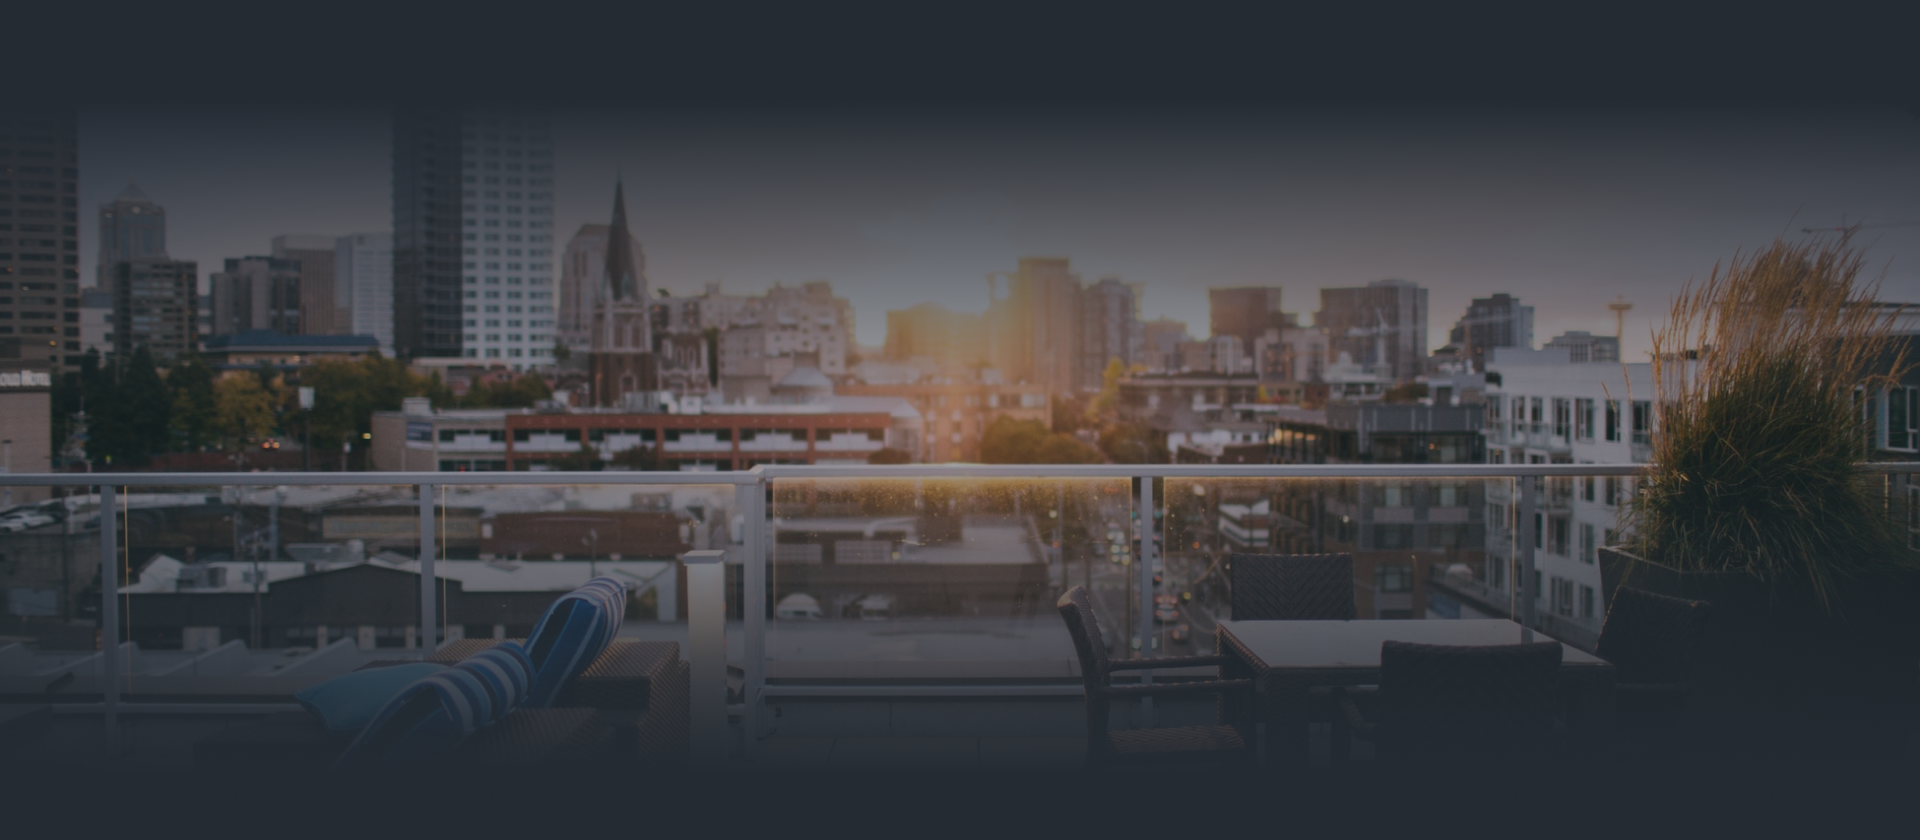
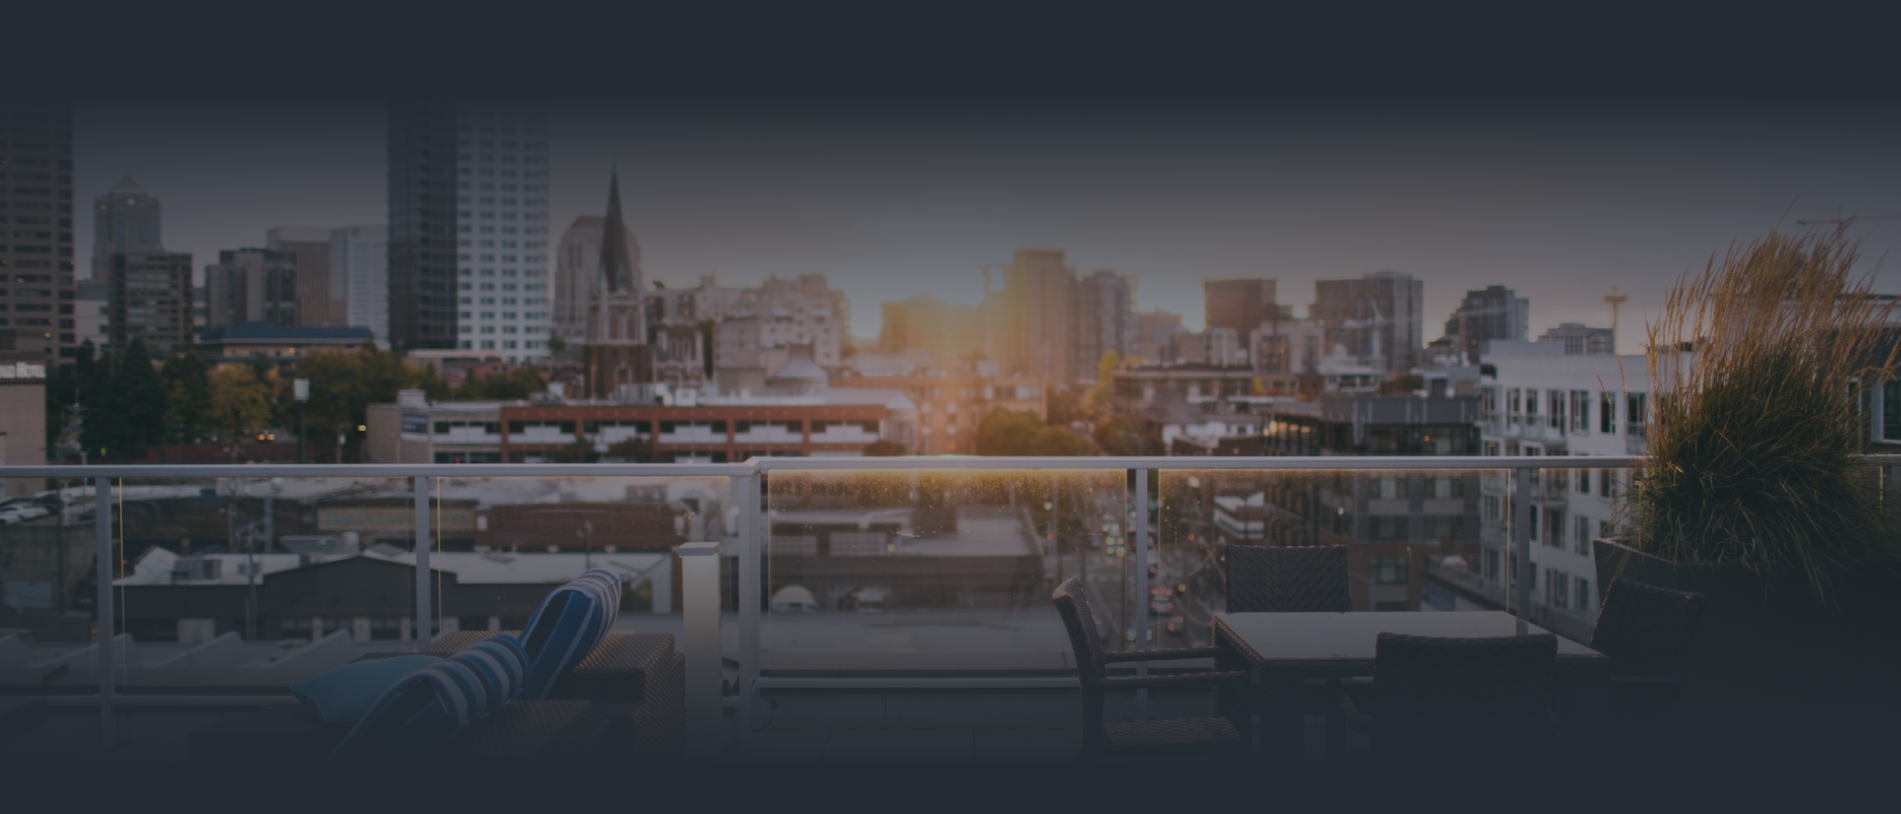
maps

diff --git a/style.css b/style.css
@@ -94,6 +94,7 @@
 }
 
 .bodySection {
+  margin-top: -2px;
   background-color: #242B33;
   background-size: cover;
   width: 100%;
@@ -133,6 +134,7 @@
 }
 
 .feedback {
+  margin-top: -2px;
   background: url("images/Rectangle (3).png");
   background-size: cover;
   min-height: 450px;
@@ -214,6 +216,7 @@
 }
 
 .sectionInfo {
+  margin-top: -2px;
   background: #242B33;
   display: -webkit-box;
   display: -ms-flexbox;
@@ -260,12 +263,14 @@
   color: #f3d08e;
 }
 
-.sectionInfo .sectionInfo_mape_wrapper img {
+.sectionInfo .sectionInfo_mape_wrapper .sectionInfo_mape {
+  padding: 5px;
   width: 100%;
-  height: 100%;
+  min-height: 600px;
 }
 
 .footer {
+  margin-top: -2px;
   background: #2D353D;
   height: 250px;
   display: -webkit-box;
@@ -298,113 +303,4 @@
   text-decoration: none;
   color: #f3d08e;
 }
-
-/* #emblem{
-	text-align: center;
-    color: #fff;
-    margin-top: 30px;
-}
-
-ul, li{
-    margin: 0;
-    padding: 0;
-    display: block;
-}
-
-.menu{
-    margin-top: 55px;
-}
-
-.menu__home{
-    margin-right: 40px;
-}
-
-.menu__home a{
-    font-size: 14px;
-    font-weight: 700;
-    text-align: center;
-    color: #fff;
-}
-
-#hederCent{
-	padding: 0;
-	margin-top: 200px;
-	font-family: Playfair Display;
-	font-style: normal;
-	font-weight: bold;
-	font-size: 48px;
-	line-height: 64px;
-	text-align: center;
-	color: #D4C17F;
-}
-
-#mouse{
-	margin-top: 100px;
-}
-
-#adres{
-	font-size: 15px;
-    font-weight: 700;
-    text-align: center;
-    color: #fff;
-    padding: 0;
-    margin-top: 340px;
-}
-
-#content{
-	background: #242B33;
-}
-
-#contentText{
-	font-family: Playfair Display;
-	font-style: normal;
-	font-weight: bold;
-	font-size: 36px;
-	line-height: 48px;
-	color: #D4C17F;
-	margin-top: 120px;
-}
-
-#contentImg{
-	margin-top: 100px;
-	margin-bottom: 30px;
-}
-
-#cont{
-	background:  url('images/Rectangle (3).png') center / cover no-repeat;
-}
-
-#textFisf{
-	font-family: Raleway;
-	font-style: normal;
-	font-weight: normal;
-	font-size: 16px;
-	line-height: 24px;
-	color: #FFFFFF;
-	margin-bottom: 180px;
-}
-
-#btns{
-	background: #FFFFFF;
-	width: 255px;
-	height: 50px;
-}
-
-
-.semi-transparent-button {
-	width: 255px;
-	height: 50px;
-	background: #FFFFFF;
-	opacity: 0.2;
-	}
-
-#contentTextBtn{
-	font-family: Raleway;
-font-style: normal;
-font-weight: normal;
-font-size: 13px;
-line-height: 16px;
-text-align: center;
-color: #E7E7E7;
-} */
 /*# sourceMappingURL=style.css.map */

diff --git a/style.scss b/style.scss
@@ -58,6 +58,7 @@
 }
 
 .bodySection{
+	margin-top: -2px;
 	background-color: #242B33;
 	background-size: cover;
 	width: 100%;
@@ -82,6 +83,7 @@
 }
 
 .feedback{
+	margin-top: -2px;
 	background: url('images/Rectangle\ \(3\).png');
 	background-size: cover;
 	min-height: 450px;
@@ -135,6 +137,7 @@
 }
 
 .sectionInfo{
+	margin-top: -2px;
 	background: #242B33;
 	display: flex;
 	align-items: center;
@@ -157,14 +160,16 @@
 			padding: 10px;
 			color: rgb(243, 208, 142);
 		}
-		img{
+		.sectionInfo_mape{
+			padding: 5px;
 			width: 100%;
-			height: 100%;
+			min-height: 600px;
 		}
 	}
 }
 
 .footer{
+	margin-top: -2px;
 	background: #2D353D;
 	height: 250px;
 	display: flex;
@@ -186,116 +191,3 @@
 	}
 }
 
-
-
-
-
-
-/* #emblem{
-	text-align: center;
-    color: #fff;
-    margin-top: 30px;
-}
-
-ul, li{
-    margin: 0;
-    padding: 0;
-    display: block;
-}
-
-.menu{
-    margin-top: 55px;
-}
-
-.menu__home{
-    margin-right: 40px;
-}
-
-.menu__home a{
-    font-size: 14px;
-    font-weight: 700;
-    text-align: center;
-    color: #fff;
-}
-
-#hederCent{
-	padding: 0;
-	margin-top: 200px;
-	font-family: Playfair Display;
-	font-style: normal;
-	font-weight: bold;
-	font-size: 48px;
-	line-height: 64px;
-	text-align: center;
-	color: #D4C17F;
-}
-
-#mouse{
-	margin-top: 100px;
-}
-
-#adres{
-	font-size: 15px;
-    font-weight: 700;
-    text-align: center;
-    color: #fff;
-    padding: 0;
-    margin-top: 340px;
-}
-
-#content{
-	background: #242B33;
-}
-
-#contentText{
-	font-family: Playfair Display;
-	font-style: normal;
-	font-weight: bold;
-	font-size: 36px;
-	line-height: 48px;
-	color: #D4C17F;
-	margin-top: 120px;
-}
-
-#contentImg{
-	margin-top: 100px;
-	margin-bottom: 30px;
-}
-
-#cont{
-	background:  url('images/Rectangle (3).png') center / cover no-repeat;
-}
-
-#textFisf{
-	font-family: Raleway;
-	font-style: normal;
-	font-weight: normal;
-	font-size: 16px;
-	line-height: 24px;
-	color: #FFFFFF;
-	margin-bottom: 180px;
-}
-
-#btns{
-	background: #FFFFFF;
-	width: 255px;
-	height: 50px;
-}
-
-
-.semi-transparent-button {
-	width: 255px;
-	height: 50px;
-	background: #FFFFFF;
-	opacity: 0.2;
-	}
-
-#contentTextBtn{
-	font-family: Raleway;
-font-style: normal;
-font-weight: normal;
-font-size: 13px;
-line-height: 16px;
-text-align: center;
-color: #E7E7E7;
-} */

diff --git a/index.html b/index.html
@@ -100,7 +100,7 @@
 		<div class="sectionInfo_mape_wrapper">
 			<h2>Район на карте</h2>
 			<div class="sectionInfo_mape">
-				<img src="images/Rectangle 3.png">
+				<iframe src="https://www.google.com/maps/embed?pb=!1m18!1m12!1m3!1d2840.281162523902!2d50.20155143356472!3d53.228923879306464!2m3!1f0!2f0!3f0!3m2!1i1024!2i768!4f13.1!3m3!1m2!1s0x41661ef58f68a9b3%3A0xb2923ab31cacc028!2z0JDQndCeICLQn9Cw0YDQuiDQk9Cw0LPQsNGA0LjQvdCwIg!5e0!3m2!1sru!2sru!4v1595148004547!5m2!1sru!2sru" width="100%" height="100%" frameborder="0" style="border:0;" allowfullscreen="" aria-hidden="false" tabindex="0"></iframe>
 			</div>
 		</div>
 
